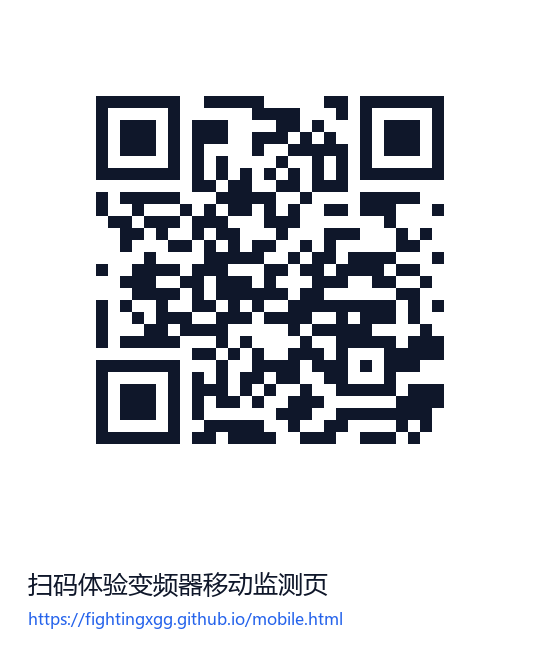
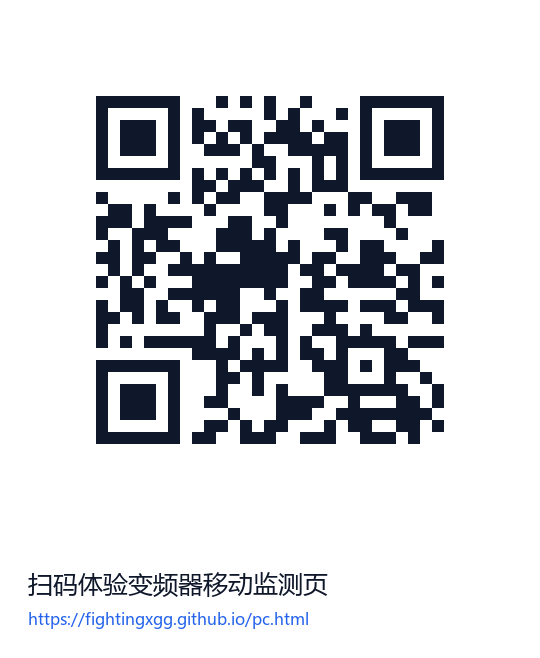
Add files via upload

diff --git a/index.html b/index.html
@@ -137,7 +137,7 @@
 <body>
   <iframe src="pc.html" title="变频器 PC 在线监测大屏"></iframe>
   <div class="toolbar">
-    <button class="primary" id="scanButton" type="button">扫码体验</button>
+    <button class="primary" id="scanButton" type="button">扫码体验 PC 版</button>
     <a href="mobile.html" target="_blank" rel="noreferrer">打开手机页</a>
     <a href="pc.html" target="_blank" rel="noreferrer">打开大屏页</a>
   </div>
@@ -145,9 +145,9 @@
     <section class="qr-card" aria-label="扫码体验入口">
       <div class="eyebrow">MOBILE EXPERIENCE</div>
       <h1>扫码同步体验</h1>
-      <p>观众使用手机扫描二维码，即可打开移动端交互页面，查看历史曲线、预测曲线、故障段解释和运维建议。</p>
+      <p>观众使用手机扫描二维码，即可打开与 PC 大屏一致的完整监测页面，查看历史曲线、预测曲线、故障段解释和运维建议。</p>
       <img src="qr.png" alt="扫码体验二维码">
-      <div class="url">https://fightingxgg.github.io/mobile.html</div>
+      <div class="url">https://fightingxgg.github.io/pc.html</div>
       <button class="close" id="closeButton" type="button">返回演示</button>
     </section>
   </div>

diff --git a/README_upload.md b/README_upload.md
@@ -5,7 +5,7 @@
 - `index.html`：PC 演示入口，页面右下角有扫码体验按钮
 - `pc.html`：PC 在线监测大屏
 - `mobile.html`：手机扫码体验页
-- `qr.png`：指向 `https://fightingxgg.github.io/mobile.html` 的二维码
+- `qr.png`：指向 `https://fightingxgg.github.io/pc.html` 的二维码，与 PC 大屏保持一致
 - `.nojekyll`：让 GitHub Pages 原样发布静态文件
 
 上传后请确认 GitHub Pages 设置为：
